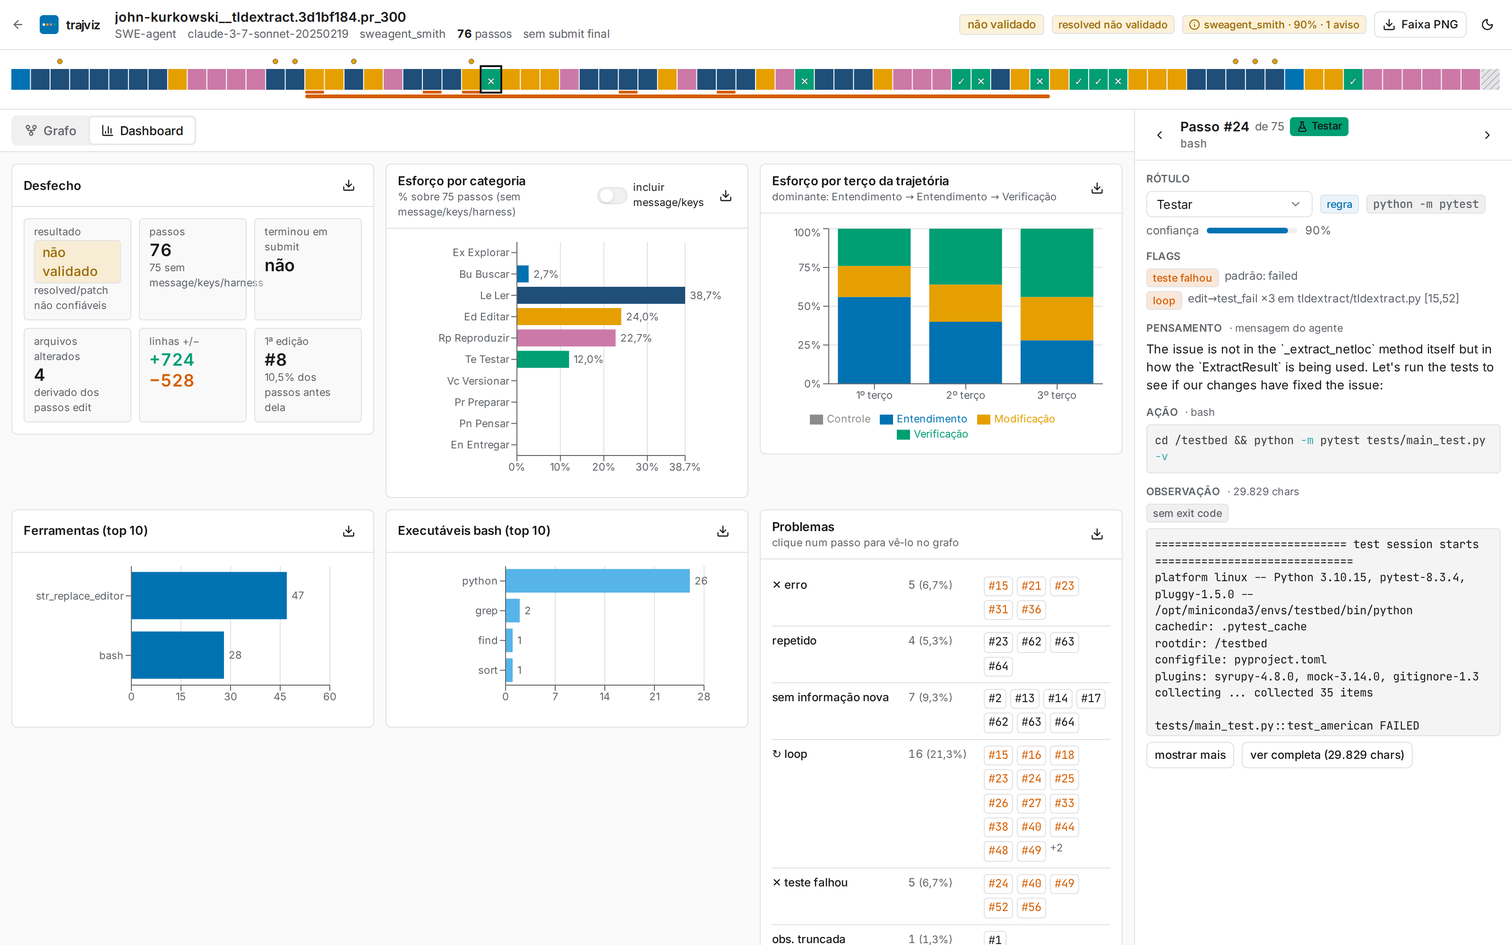
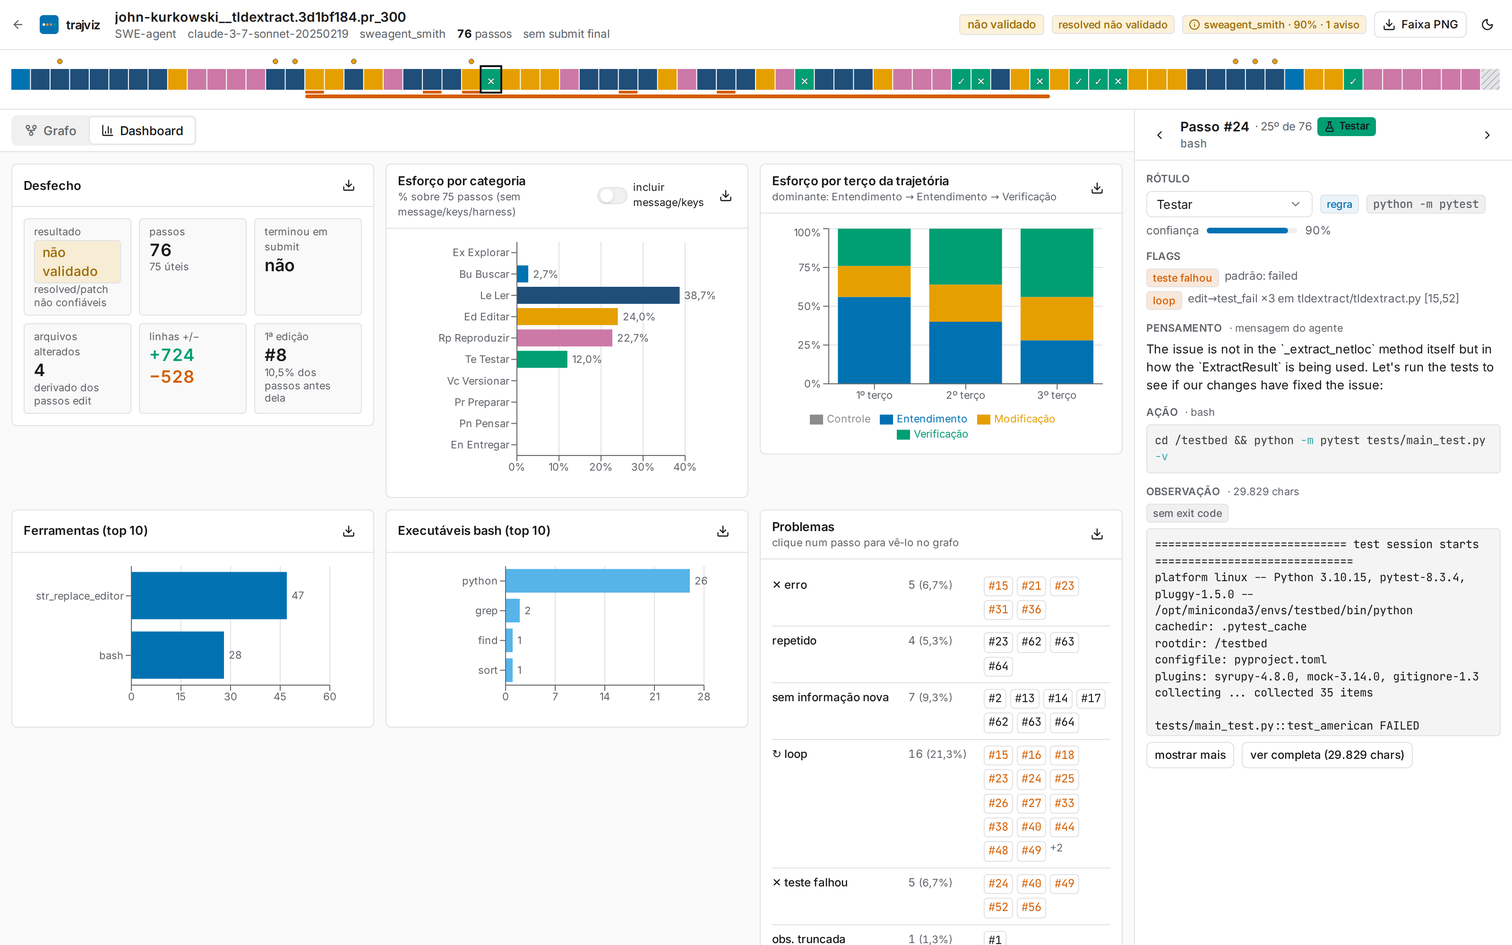
fase 5: ajustes da revisão visual
- rótulo do nó = segmento que definiu a categoria (Step.summary), sem cd/env/caminhos do repo
- arquivos criados pelo agente: selo neutro e fora de "editado sem ler" (FileRef.created, Files.created_by_agent)
- inspetor: "Passo #4 · 5º de 86"; KPI "86 úteis"
- minimapa menor, translúcido e recolhível, com o enquadramento livrando o canto; toast de 4 s
- eixo do esforço por categoria em valores redondos

diff --git a/frontend/src/components/dashboard/DashboardTab.tsx b/frontend/src/components/dashboard/DashboardTab.tsx
@@ -7,7 +7,7 @@ import { Badge } from '@/components/ui/badge'
 import { Switch } from '@/components/ui/switch'
 import { CATEGORY_ORDER, ERROR_COLOR, KINDS, PHASES, PHASE_COLOR, type Kind } from '@/theme/categories'
 import { outcomeOf } from '@/lib/steps'
-import { fmtInt, fmtPct, cn } from '@/lib/utils'
+import { fmtInt, fmtPct, cn, roundTicks } from '@/lib/utils'
 import { useUI } from '@/store/ui'
 import { useTheme } from '@/theme/useTheme'
 
@@ -43,8 +43,8 @@ export function DashboardTab({ id, trajectory, metrics, loading }: { id: string;
 }
 
 // ---------------------------------------------------------------- KPIs
-function Kpi({ label, value, sub, testid }: { label: string; value: React.ReactNode; sub?: string; testid?: string }) {
-  return <div className="rounded border bg-muted/40 px-2.5 py-1.5" data-testid={testid}><div className="text-[11px] text-muted-foreground">{label}</div><div className="text-lg font-semibold leading-tight tabular-nums">{value}</div>{sub && <div className="text-[11px] text-muted-foreground">{sub}</div>}</div>
+function Kpi({ label, value, sub, testid, title }: { label: string; value: React.ReactNode; sub?: string; testid?: string; title?: string }) {
+  return <div className="min-w-0 overflow-hidden rounded border bg-muted/40 px-2.5 py-1.5" data-testid={testid} title={title}><div className="text-[11px] text-muted-foreground">{label}</div><div className="text-lg font-semibold leading-tight tabular-nums">{value}</div>{sub && <div className="break-words text-[11px] leading-tight text-muted-foreground">{sub}</div>}</div>
 }
 
 function Kpis({ m, trajectory }: { m: Metrics; trajectory: Trajectory }) {
@@ -54,7 +54,7 @@ function Kpis({ m, trajectory }: { m: Metrics; trajectory: Trajectory }) {
     <DashCard id="kpis" title="Desfecho" subtitle={o.exit_status ? `exit_status: ${o.exit_status}` : undefined} className="2xl:col-span-1">
       <div className="grid grid-cols-2 gap-2 sm:grid-cols-3">
         <Kpi label="resultado" testid="kpi-outcome" value={<Badge tone={oc.tone} className="px-2 py-0.5 text-sm">{oc.label === 'PASS' ? '✓ PASS' : oc.label === 'FAIL' ? '✕ FAIL' : oc.label}</Badge>} sub={o.resolved_validated ? undefined : 'resolved/patch não confiáveis'} />
-        <Kpi label="passos" value={fmtInt(o.n_steps)} sub={`${fmtInt(m.effort.n_core_steps)} sem message/keys/harness`} />
+        <Kpi label="passos" value={fmtInt(o.n_steps)} sub={`${fmtInt(m.effort.n_core_steps)} úteis`} title="úteis = sem message, keys e harness_protocol" />
         <Kpi label="terminou em submit" value={o.ended_with_submit ? 'sim' : 'não'} />
         <Kpi label="arquivos alterados" value={fmtInt(o.patch_files)} sub={o.patch_source === 'patch' ? 'do patch' : o.patch_source === 'steps' ? 'derivado dos passos edit' : 'sem edição'} />
         <Kpi label="linhas +/−" value={<span><span className="text-ok">+{fmtInt(o.patch_lines_added)}</span> <span className="text-danger">−{fmtInt(o.patch_lines_removed)}</span></span>} />
@@ -74,6 +74,7 @@ function EffortCard({ m }: { m: Metrics }) {
     const special = include ? SPECIAL.map((k) => { const s = e[k]; return { kind: k as Kind, count: s.count, pct: s.pct_total } }) : []
     return [...base, ...special].filter((r) => r.count > 0 || !KINDS[r.kind].special).map((r) => ({ ...r, name: `${KINDS[r.kind].code}  ${KINDS[r.kind].label}` }))
   }, [e, include])
+  const ticks = roundTicks(Math.max(...rows.map((r) => r.pct), 0))
   return (
     <DashCard id="esforco" title="Esforço por categoria" subtitle={include ? '% sobre todos os passos (inclui message/keys/harness)' : `% sobre ${e.n_core_steps} passos (sem message/keys/harness)`}
       actions={<label className="flex items-center gap-1.5 text-[11px]"><Switch checked={include} onCheckedChange={setInclude} aria-label="Incluir message/keys" data-testid="include-special" />incluir message/keys</label>}>
@@ -81,7 +82,7 @@ function EffortCard({ m }: { m: Metrics }) {
         <ResponsiveContainer width="100%" height="100%">
           <BarChart data={rows} layout="vertical" margin={{ left: 8, right: 54, top: 2, bottom: 2 }}>
             <CartesianGrid horizontal={false} stroke="var(--border)" />
-            <XAxis type="number" tick={AXIS} unit="%" domain={[0, 'dataMax']} />
+            <XAxis type="number" tick={AXIS} unit="%" domain={[0, ticks[ticks.length - 1]]} ticks={ticks} allowDecimals={false} />
             <YAxis type="category" dataKey="name" tick={AXIS} width={118} interval={0} />
             <Tooltip formatter={(v, _n, p) => [`${fmtPct(Number(v))} (${(p.payload as { count: number }).count} passos)`, 'participação']} contentStyle={{ background: 'var(--card)', border: '1px solid var(--border)', fontSize: 12 }} cursor={{ fill: 'var(--muted)' }} />
             <Bar dataKey="pct" isAnimationActive={false} label={{ position: 'right', fontSize: 11, fill: 'var(--muted-foreground)', formatter: (v: unknown) => fmtPct(Number(v)) }}>
@@ -202,6 +203,7 @@ function FilesCard({ m }: { m: Metrics }) {
   const f = m.files
   const never = new Set(f.edited_never_read)
   const reread = new Set(f.read_3plus_no_edit)
+  const created = new Set(f.created_by_agent)
   const go = useGoStep()
   return (
     <DashCard id="arquivos" title="Arquivos" subtitle={`${f.table.length} arquivos tocados`} className="xl:col-span-2">
@@ -216,7 +218,7 @@ function FilesCard({ m }: { m: Metrics }) {
                   <td className="px-2 text-right tabular-nums">{r.reads}</td><td className="px-2 text-right tabular-nums">{r.edits}</td><td className="px-2 text-right tabular-nums">{r.runs}</td>
                   <td className="px-2 text-right"><button className="mono text-primary hover:underline" onClick={() => go(r.first_idx)}>#{r.first_idx}</button></td>
                   <td className="px-2 text-right"><button className="mono text-primary hover:underline" onClick={() => go(r.last_idx)}>#{r.last_idx}</button></td>
-                  <td className="pl-2">{never.has(r.path) && <Badge tone="warn" data-testid="warn-never-read">editado sem ler</Badge>}{reread.has(r.path) && <Badge tone="muted" className="ml-1" data-testid="warn-reread">lido ≥ 3× sem editar</Badge>}</td>
+                  <td className="pl-2">{created.has(r.path) && <Badge tone="muted" data-testid="badge-created" title="o 1º evento deste arquivo foi uma criação (editor create ou redirecionamento)">criado pelo agente</Badge>}{never.has(r.path) && <Badge tone="warn" data-testid="warn-never-read">editado sem ler</Badge>}{reread.has(r.path) && <Badge tone="muted" className="ml-1" data-testid="warn-reread">lido ≥ 3× sem editar</Badge>}</td>
                 </tr>
               ))}
             </tbody>

diff --git a/frontend/src/components/graph/GraphTab.tsx b/frontend/src/components/graph/GraphTab.tsx
@@ -1,7 +1,7 @@
-import { useCallback, useEffect, useMemo, useRef } from 'react'
+import { useCallback, useEffect, useMemo, useRef, useState } from 'react'
 import { Background, BackgroundVariant, Controls, MiniMap, ReactFlow, ReactFlowProvider, useReactFlow, type Node } from '@xyflow/react'
 import '@xyflow/react/dist/style.css'
-import { Download, Maximize } from 'lucide-react'
+import { Download, Map, Maximize } from 'lucide-react'
 import { toast } from 'sonner'
 import type { Metrics, Step, Trajectory } from '@/api/client'
 import { Legend } from '@/components/Legend'
@@ -27,6 +27,10 @@ function GraphInner({ id, trajectory, metrics }: { id: string; trajectory: Traje
   const rf = useReactFlow()
   const box = useRef<HTMLDivElement>(null)
   const compact = ui.compact ?? steps.length > COMPACT_THRESHOLD
+  const [mini, setMini] = useState(() => { try { return localStorage.getItem('trajviz-minimap') !== '0' } catch { return true } })
+  const toggleMini = () => setMini((v) => { try { localStorage.setItem('trajviz-minimap', v ? '0' : '1') } catch { /* sem storage */ } return !v })
+  // o enquadramento deixa livre o canto do minimapa (ele nunca cobre nós no fit)
+  const pad = useMemo(() => ({ top: '6%', left: '4%', right: mini ? '176px' : '4%', bottom: mini ? '116px' : '6%' } as const), [mini])
   const gt = useMemo(() => gtSets(trajectory), [trajectory])
   const hasGT = gt.incorrect.size + gt.unuseful.size > 0
   const loops = metrics?.problems.loop_ranges ?? []
@@ -58,10 +62,10 @@ function GraphInner({ id, trajectory, metrics }: { id: string; trajectory: Traje
     const items = buildItems(steps.filter((s) => passesFilters(s, ui.filters)), compact, ui.expanded)
     const keys = new Set(items.filter((it) => itemLastIdx(it) >= a && itemFirstIdx(it) <= b).map((it) => it.key))
     const nodes = graph.nodes.filter((n) => keys.has(n.id))
-    if (nodes.length) rf.fitView({ nodes, padding: 0.25, duration: 300, maxZoom: 1.3 })
+    if (nodes.length) rf.fitView({ nodes, padding: pad, duration: 300, maxZoom: 1.3 })
   }, [ui.range]) // eslint-disable-line react-hooks/exhaustive-deps
 
-  useEffect(() => { const t = setTimeout(() => rf.fitView({ padding: 0.1, duration: 0 }), 50); return () => clearTimeout(t) }, [id, compact]) // eslint-disable-line react-hooks/exhaustive-deps
+  useEffect(() => { const t = setTimeout(() => rf.fitView({ padding: pad, duration: 0 }), 50); return () => clearTimeout(t) }, [id, compact, mini]) // eslint-disable-line react-hooks/exhaustive-deps
 
   const onNodeClick = useCallback((_: unknown, n: Node) => { if (n.type === 'step') ui.select((n.data.step as Step).idx) }, [ui])
   const miniColor = useCallback((n: Node) => (n.type === 'step' ? fill(kindOf(n.data.step as Step), dark) : n.type === 'group' ? fill(n.data.kind as never, dark) : 'transparent'), [dark])
@@ -89,17 +93,19 @@ function GraphInner({ id, trajectory, metrics }: { id: string; trajectory: Traje
         {(ui.filters.cats.length > 0 || ui.filters.onlyErrors || ui.filters.onlyLoops || ui.filters.hideSpecial) &&
           <button className="text-primary hover:underline" onClick={() => ui.setFilters({ cats: [], onlyErrors: false, onlyLoops: false, hideSpecial: false })}>limpar filtros</button>}
         <span className="ml-auto text-muted-foreground" data-testid="visible-count">{visibleCount} de {steps.length} passos · {graph.nodes.filter((n) => n.type === 'step' || n.type === 'group').length} nós</span>
-        <Button size="sm" variant="outline" onClick={() => rf.fitView({ padding: 0.1, duration: 250 })}><Maximize />Enquadrar</Button>
+        <Button size="sm" variant="outline" onClick={toggleMini} aria-pressed={mini} data-testid="toggle-minimap"><Map />Minimapa</Button>
+        <Button size="sm" variant="outline" onClick={() => rf.fitView({ padding: pad, duration: 250 })}><Maximize />Enquadrar</Button>
         <Button size="sm" variant="outline" onClick={doExport} data-testid="export-graph"><Download />Exportar PNG</Button>
       </div>
       <div ref={box} className="relative min-h-0 flex-1" data-testid="graph-canvas">
         {visibleCount === 0 ? <div className="flex h-full items-center justify-center text-muted-foreground" data-testid="graph-empty">Nenhum passo com esses filtros.</div> : (
           <ReactFlow nodes={graph.nodes} edges={graph.edges} nodeTypes={nodeTypes} edgeTypes={edgeTypes} onNodeClick={onNodeClick}
             nodesDraggable={false} nodesConnectable={false} edgesFocusable={false} minZoom={0.04} maxZoom={2} onlyRenderVisibleElements
-            fitView fitViewOptions={{ padding: 0.1 }}>
+            fitView fitViewOptions={{ padding: pad }}>
             <Background variant={BackgroundVariant.Dots} gap={18} size={1} />
             <Controls showInteractive={false} data-no-export />
-            <MiniMap pannable zoomable nodeColor={miniColor} nodeStrokeWidth={1} maskColor={dark ? 'rgba(0,0,0,0.5)' : 'rgba(240,240,240,0.6)'} data-no-export />
+            {mini && <MiniMap pannable zoomable nodeColor={miniColor} nodeStrokeWidth={1} maskColor={dark ? 'rgba(0,0,0,0.45)' : 'rgba(240,240,240,0.55)'} data-no-export
+              className="!m-2 !rounded !border !opacity-55 transition-opacity hover:!opacity-100" style={{ width: 150, height: 96 }} data-testid="minimap" />}
           </ReactFlow>
         )}
       </div>

diff --git a/frontend/e2e/smoke.spec.ts b/frontend/e2e/smoke.spec.ts
@@ -78,3 +78,40 @@ test('teclas j/k navegam e o modo compacto expande um grupo', async ({ page }) =
     await expect.poll(nodes).toBeGreaterThan(before)  // o grupo "read × 3" virou 3 nós
   }
 })
+
+test('revisão visual: rótulo do nó, numeração, arquivos criados e minimapa', async ({ page }) => {
+  await openSample(page, 'swe-rebench')
+  // 1) o rótulo mostra o segmento que definiu a categoria (sem `cd …` nem /workspace/<repo>/)
+  const labels = await page.locator('[data-testid=step-node] .mono.truncate').allTextContents()
+  expect(labels.length).toBeGreaterThan(5)
+  for (const l of labels) { expect(l.startsWith('cd ')).toBe(false); expect(l).not.toContain('/workspace/'); expect(l).not.toContain('/testbed/') }
+  // 3) numeração: #idx (0-based) + ordinal de 1 a N
+  const n = Number(((await page.getByTestId('n-steps').textContent()) ?? '0').replace(/\D/g, ''))
+  await page.goto(page.url().split('?')[0] + '?step=4')
+  await expect(page.getByTestId('inspector-idx')).toHaveText('Passo #4')
+  await expect(page.getByTestId('inspector-ordinal')).toHaveText(`· 5º de ${n}`)
+  // 5) minimapa recolhível
+  await expect(page.locator('.react-flow__minimap')).toBeVisible()
+  await page.getByTestId('toggle-minimap').click()
+  await expect(page.locator('.react-flow__minimap')).toHaveCount(0)
+  await page.getByTestId('toggle-minimap').click()
+  await expect(page.locator('.react-flow__minimap')).toBeVisible()
+  // 2) arquivos criados pelo agente nunca aparecem como "editado sem ler"
+  await page.getByTestId('tab-dashboard').click()
+  await expect(page.getByTestId('files-table')).toBeVisible()
+  const rows = page.locator('[data-testid=files-table] tbody tr')
+  const total = await rows.count()
+  let created = 0
+  for (let i = 0; i < total; i++) {
+    const r = rows.nth(i)
+    const isCreated = (await r.getByTestId('badge-created').count()) > 0
+    created += isCreated ? 1 : 0
+    if (isCreated) await expect(r.getByTestId('warn-never-read')).toHaveCount(0)
+  }
+  expect(created).toBeGreaterThan(0)  // essa amostra cria scripts de reprodução
+  // 4) KPI "passos" cabe no cartão
+  const kpi = page.locator('[data-testid=card-kpis] >> text=úteis')
+  await expect(kpi).toBeVisible()
+  const box = await kpi.boundingBox(), card = await page.getByTestId('card-kpis').boundingBox()
+  expect(box!.x + box!.width).toBeLessThanOrEqual(card!.x + card!.width)
+})

diff --git a/frontend/src/api/schema.d.ts b/frontend/src/api/schema.d.ts
@@ -308,6 +308,11 @@ export interface components {
              * @enum {string}
              */
             mode: "read" | "edit" | "run";
+            /**
+             * Created
+             * @default false
+             */
+            created: boolean;
         };
         /** FileStat */
         FileStat: {
@@ -332,6 +337,11 @@ export interface components {
             first_idx: number;
             /** Last Idx */
             last_idx: number;
+            /**
+             * Created By Agent
+             * @default false
+             */
+            created_by_agent: boolean;
         };
         /** Files */
         Files: {
@@ -341,6 +351,8 @@ export interface components {
             edited_never_read: string[];
             /** Read 3Plus No Edit */
             read_3plus_no_edit: string[];
+            /** Created By Agent */
+            created_by_agent: string[];
         };
         /** FlagInfo */
         FlagInfo: {
@@ -618,6 +630,8 @@ export interface components {
             category: "explore" | "search" | "read" | "edit" | "reproduce" | "test" | "setup" | "vcs" | "think" | "submit" | "other";
             /** Subcategory */
             subcategory?: string | null;
+            /** Summary */
+            summary?: string | null;
             /**
              * Label Source
              * @default fallback

diff --git a/frontend/src/components/Inspector.tsx b/frontend/src/components/Inspector.tsx
@@ -80,7 +80,7 @@ function StepDetail({ id, step, total, gt, onNav, onJump, steps }: { id: string;
       <div className="flex items-center gap-2 border-b px-3 py-2">
         <Button variant="ghost" size="icon" onClick={() => onNav(-1)} disabled={step.idx === 0} aria-label="Passo anterior"><ChevronLeft /></Button>
         <div className="min-w-0 flex-1">
-          <div className="flex items-center gap-1.5"><span className="text-sm font-semibold tabular-nums" data-testid="inspector-idx">Passo #{step.idx}</span><span className="text-xs text-muted-foreground">de {total - 1}</span>
+          <div className="flex items-center gap-1.5"><span className="text-sm font-semibold tabular-nums" data-testid="inspector-idx">Passo #{step.idx}</span><span className="text-xs text-muted-foreground" data-testid="inspector-ordinal">· {step.idx + 1}º de {total}</span>
             <KindChip kind={kind} /></div>
           <div className="mono truncate text-muted-foreground">{step.action.tool_native ?? step.action.tool}{step.action.command && step.action.tool === 'editor' ? ` · ${step.action.command}` : ''}{step.native_id != null ? ` · id ${String(step.native_id).slice(0, 18)}` : ''}</div>
         </div>

diff --git a/frontend/src/pages/Library.tsx b/frontend/src/pages/Library.tsx
@@ -31,7 +31,7 @@ export default function Library() {
   const agents = useMemo(() => [...new Set((all.data ?? []).map((i) => i.agent).filter(Boolean) as string[])], [all.data])
 
   const goTo = (r: UploadResponse) => {
-    toast.success(`Formato detectado: ${r.format_detected} (${Math.round(r.confidence * 100)}% de confiança) · ${r.n_steps} passos`, { id: `fmt-${r.id}` })
+    toast.success(`Formato detectado: ${r.format_detected} (${Math.round(r.confidence * 100)}% de confiança) · ${r.n_steps} passos`, { id: `fmt-${r.id}`, duration: 4000 })
     if (r.warnings.length) toast.warning(r.warnings.join(' · '), { duration: 8000, id: `warn-${r.id}` })
     nav(`/t/${r.id}`)
   }

diff --git a/frontend/src/lib/utils.ts b/frontend/src/lib/utils.ts
@@ -17,3 +17,10 @@ export function fmtInt(n: number | null | undefined): string {
 export function fmtPct(n: number | null | undefined, digits = 1): string {
   return n == null ? '—' : `${n.toFixed(digits).replace('.', ',')}%`
 }
+
+/** Marcações do eixo em valores redondos (0, 10, 20, 30…): passo 5 se o máximo ≤ 20, senão 10. */
+export function roundTicks(max: number): number[] {
+  const step = max <= 20 ? 5 : 10
+  const top = Math.max(step, Math.ceil(max / step) * step)
+  return Array.from({ length: top / step + 1 }, (_, i) => i * step)
+}

diff --git a/frontend/src/lib/steps.ts b/frontend/src/lib/steps.ts
@@ -18,7 +18,7 @@ export function commandShort(s: Step, n = 40): string {
   if (a.tool === 'message') return truncate(s.thought ?? 'mensagem', n)
   if (a.tool === 'submit') return truncate(a.tool_native ?? 'submit', n)
   if (a.tool === 'task_tracker') return 'task_tracker'
-  return truncate(a.command ?? a.raw ?? a.tool, n)
+  return truncate(s.summary ?? a.command ?? a.raw ?? a.tool, n) // summary = segmento que definiu a categoria (sem cd/env/caminhos do repo)
 }
 
 export function kindLabelOfStep(s: Step): Kind {

diff --git a/frontend/src/lib/utils.test.ts b/frontend/src/lib/utils.test.ts
@@ -1,0 +1,12 @@
+import { describe, expect, it } from 'vitest'
+import { roundTicks } from './utils'
+
+describe('roundTicks', () => {
+  it('valores redondos até cobrir o máximo', () => {
+    expect(roundTicks(27.3)).toEqual([0, 10, 20, 30])
+    expect(roundTicks(25.6)).toEqual([0, 10, 20, 30])
+    expect(roundTicks(41)).toEqual([0, 10, 20, 30, 40, 50])
+    expect(roundTicks(12)).toEqual([0, 5, 10, 15])
+    expect(roundTicks(0)).toEqual([0, 5])
+  })
+})

diff --git a/frontend/src/components/Toaster.tsx b/frontend/src/components/Toaster.tsx
@@ -3,5 +3,5 @@ import { useTheme } from '@/theme/useTheme'
 
 export function Toaster() {
   const { dark } = useTheme()
-  return <Sonner theme={dark ? 'dark' : 'light'} position="bottom-right" richColors closeButton />
+  return <Sonner theme={dark ? 'dark' : 'light'} position="bottom-right" richColors closeButton duration={4000} />
 }

diff --git a/backend/app/labeling/bash_parser.py b/backend/app/labeling/bash_parser.py
@@ -39,6 +39,7 @@ class BashResult:
     files: list[FileRef] = field(default_factory=list)
     writes: list[str] = field(default_factory=list)  # arquivos escritos (para Ctx.created)
     keys_only: bool = False
+    segment: str | None = None  # texto (limpo) do segmento que definiu a categoria
 
 
 # ----------------------------------------------------------------------------- normalização de caminhos
@@ -469,6 +470,7 @@ def _finish_redirects(r: BashResult, seg: Seg, ctx: Ctx) -> BashResult:
     for _, t in reds:
         f = fref(t, "edit")
         if f:
+            f.created = True
             r.files.append(f)
     r.writes += tg
     if r.category is not C.edit:
@@ -612,6 +614,25 @@ def _classify_exe(exe: str, words: list[str], seg: Seg, ctx: Ctx, depth: int) ->
     return BashResult(C.other, e, 0.3)
 
 
+# ----------------------------------------------------------------------------- texto curto do segmento
+_WRAP_RE = re.compile(r"^\s*(?:[A-Za-z_]\w*=\S*\s+|sudo\s+(?:-\S+\s+)*|env\s+(?:-\S+\s+)*|nohup\s+|time\s+|command\s+|timeout\s+(?:-\S+\s+)*\d+[smhd]?\s+)")
+_PATH_IN_CMD = re.compile(r"(?<![\w.])/(?:workspace/[^/\s]+|testbed|app|repo)/")
+
+
+def clean_segment(text: str) -> str:
+    """Segmento sem prefixos (env/sudo/timeout), sem `cd x &&` e sem /workspace/<repo>/, /testbed/…; 1ª linha, espaços colapsados."""
+    t = re.sub(r"\s*<\s*__HD\d+__", "", text or "")
+    t = t.split("\n", 1)[0] if "<<" in t else t
+    for _ in range(6):
+        n = _WRAP_RE.sub("", t, count=1)
+        if n == t:
+            break
+        t = n
+    t = re.sub(r"^\s*cd\s+\S+\s*(?:&&|;)\s*", "", t)
+    t = _PATH_IN_CMD.sub("", t)
+    return re.sub(r"\s+", " ", t).strip()
+
+
 # ----------------------------------------------------------------------------- comando completo
 def classify_command(cmd: str, ctx: Ctx | None = None, depth: int = 0) -> BashResult:
     ctx = ctx or Ctx()
@@ -639,6 +660,8 @@ def classify_command(cmd: str, ctx: Ctx | None = None, depth: int = 0) -> BashRe
     chosen = next(r for _, r in kept if r.category is cat)
     out = BashResult(cat, "|".join(dict.fromkeys(r.subcategory for _, r in kept if r.subcategory)) or None,
                      chosen.confidence, [], [])
+    chosen_seg = next(sg for sg, r in kept if r.category is cat)
+    out.segment = clean_segment(chosen_seg.text)
     for _, r in results:
         for f in r.files:
             if f not in out.files:

diff --git a/backend/app/labeling/rules.py b/backend/app/labeling/rules.py
@@ -29,6 +29,7 @@ class Label:
     confidence: float = 0.3
     files: list[FileRef] = field(default_factory=list)
     writes: list[str] = field(default_factory=list)
+    summary: str | None = None  # segmento que definiu a categoria
     final: bool = False  # True = rótulo definitivo (não vai para o LLM): keys, harness, ferramenta exata
 
 
@@ -48,7 +49,7 @@ def harness_protocol(step: Step) -> bool:
 
 
 def _from_bash(r: BashResult, final: bool = False) -> Label:
-    return Label(r.category, r.subcategory, r.confidence, r.files, r.writes, final=final or r.keys_only)
+    return Label(r.category, r.subcategory, r.confidence, r.files, r.writes, summary=r.segment, final=final or r.keys_only)
 
 
 def label_step_rules(step: Step, ctx: Ctx) -> Label:
@@ -74,6 +75,8 @@ def label_step_rules(step: Step, ctx: Ctx) -> Label:
             return Label(C.read, "view", 1.0, [f] if f else [], final=True)
         if cmd in EDIT_CMDS:
             f = fref(path, "edit")
+            if f is not None and cmd == "create":
+                f.created = True
             if cmd == "create" and path:
                 ctx.add(normalize_path(path) or path)
             return Label(C.edit, cmd, 1.0, [f] if f else [], [normalize_path(path) or path] if cmd == "create" and path else [], final=True)
@@ -113,7 +116,7 @@ def _label_shell(step: Step, ctx: Ctx) -> Label:
         chosen = next(r for r in rs if r.category is cat)
         sub = "|".join(dict.fromkeys(r.subcategory for r in rs if r.subcategory))
         files = [f for r in rs for f in r.files]
-        return Label(cat, sub or None, chosen.confidence, files, [w for r in rs for w in r.writes])
+        return Label(cat, sub or None, chosen.confidence, files, [w for r in rs for w in r.writes], summary=chosen.segment)
     if _truthy(a.args.get("is_input")) or is_keys_only(a.command or ""):
         return Label(C.other, "keys", 1.0, final=True)
     return _from_bash(classify_command(a.command or a.raw or "", ctx))
